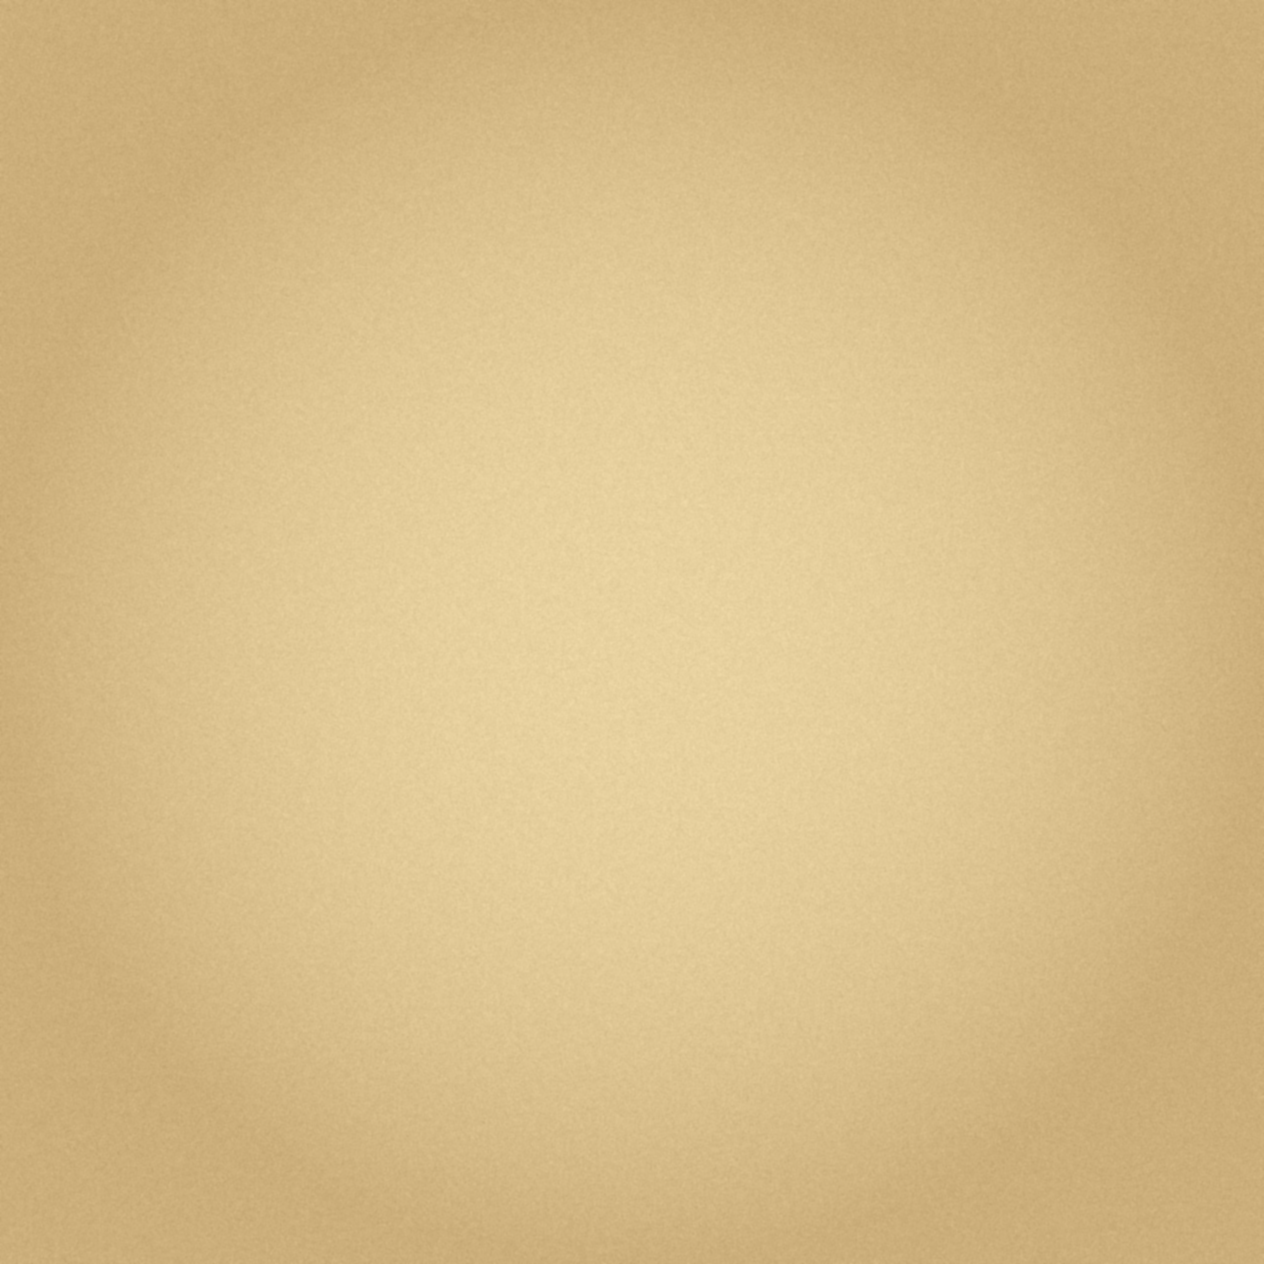
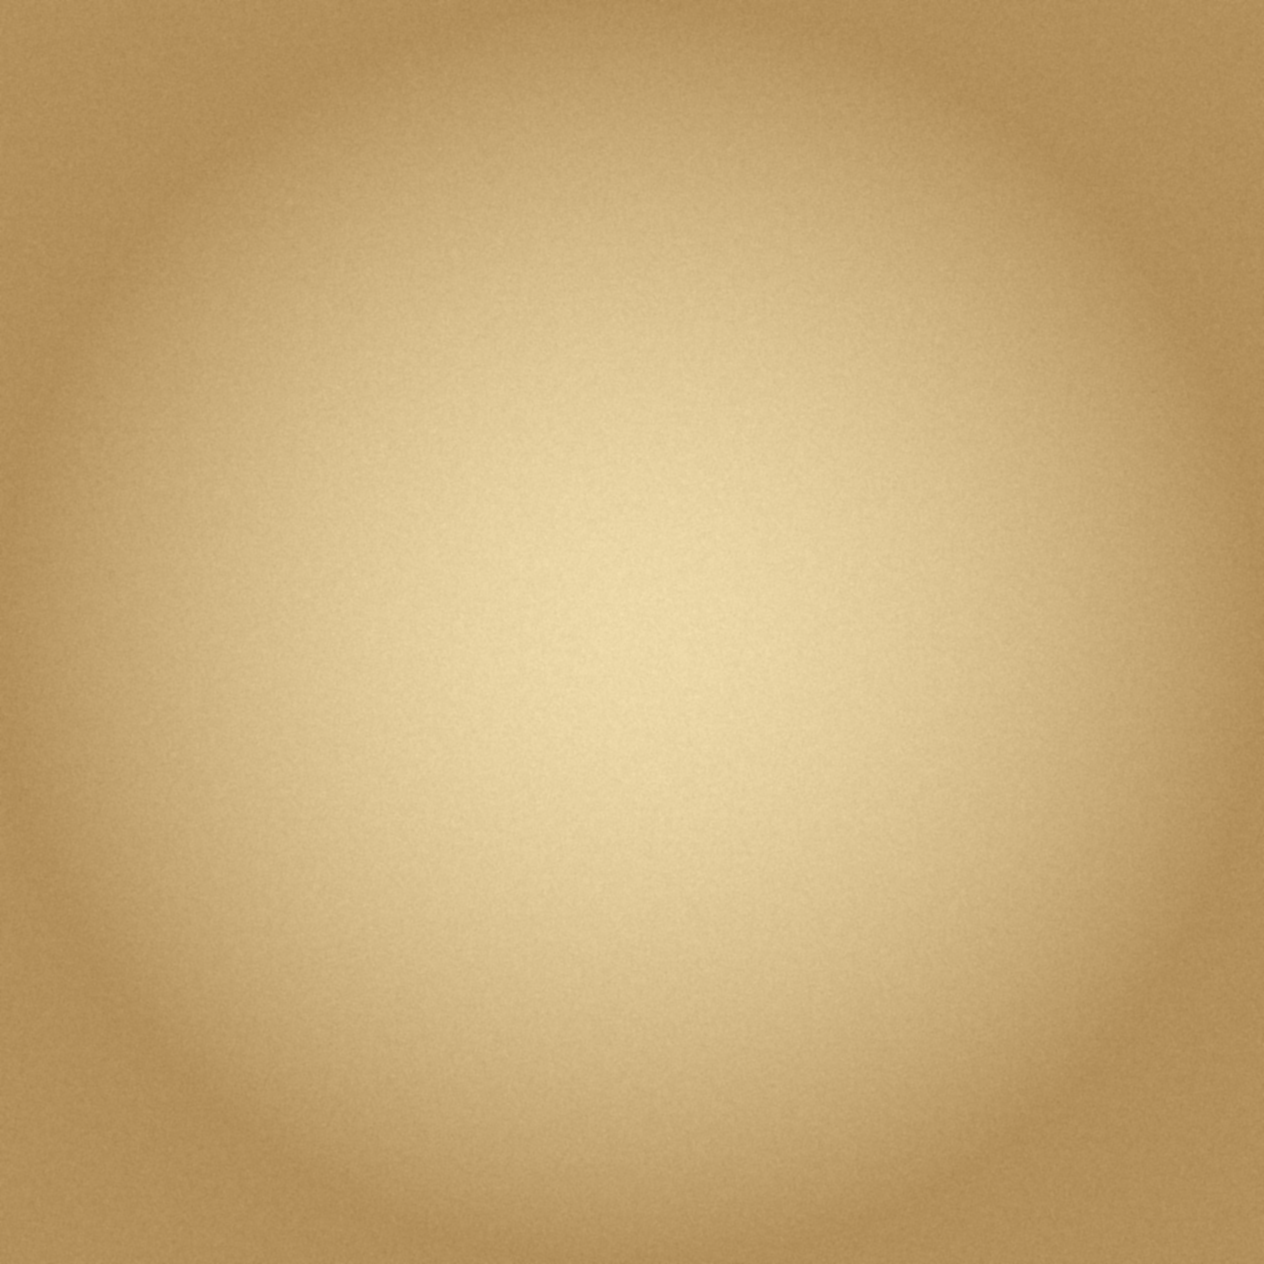
Ornament acik zeminler G1 (Serdar 2 Kas: kenara dogru koyulasan gradyan, G1): BEIGE, AGED_PAPYRUS; uretim betigi zemin_gradyan.py
Claude-Session: https://claude.ai/code/session_01Tb9gxmo8nurD6QTBCjv1BA

diff --git a/zemin_acik/zemin_gradyan.py b/zemin_acik/zemin_gradyan.py
@@ -1,0 +1,21 @@
+# BEIGE / AGED_PAPYRUS: ince tane + merkezden kenara belirgin koyulaşan radyal gradyan (lekesiz). 2 güç: G1 orta, G2 güçlü.
+import numpy as np
+from PIL import Image, ImageFilter
+N=1264; rng=np.random.default_rng(7)
+yy,xx=np.mgrid[0:N,0:N]; rr=np.hypot(xx-N/2,yy-N/2)/(N/2)
+def tane(amp=2.0):
+    n=rng.normal(0,1,(N,N)); im=Image.fromarray(((n-n.min())/(n.max()-n.min())*255).astype(np.uint8)).filter(ImageFilter.GaussianBlur(1.0))
+    a=np.array(im).astype(float); return (a-a.mean())/a.std()*amp
+def yap(merkez,kenar,us,guc):
+    t=np.clip(rr/1.0,0,1)**us*guc          # 0 merkez, guc kenarda
+    c=np.array(merkez,float)*(1-t[...,None])+np.array(kenar,float)*t[...,None]
+    c+=tane(2.0)[...,None]
+    return Image.fromarray(np.clip(c,0,255).astype(np.uint8))
+var={
+ 'BEIGE_G1':   yap((240,230,210),(176,152,118),1.8,0.75),
+ 'BEIGE_G2':   yap((242,232,212),(150,124,90), 1.6,0.90),
+ 'PAPYRUS_G1': yap((236,216,168),(160,120,66), 1.8,0.75),
+ 'PAPYRUS_G2': yap((238,218,170),(128,92,46), 1.6,0.90),
+}
+for k,v in var.items(): v.save(k+'_1264.png')
+print('ok')
